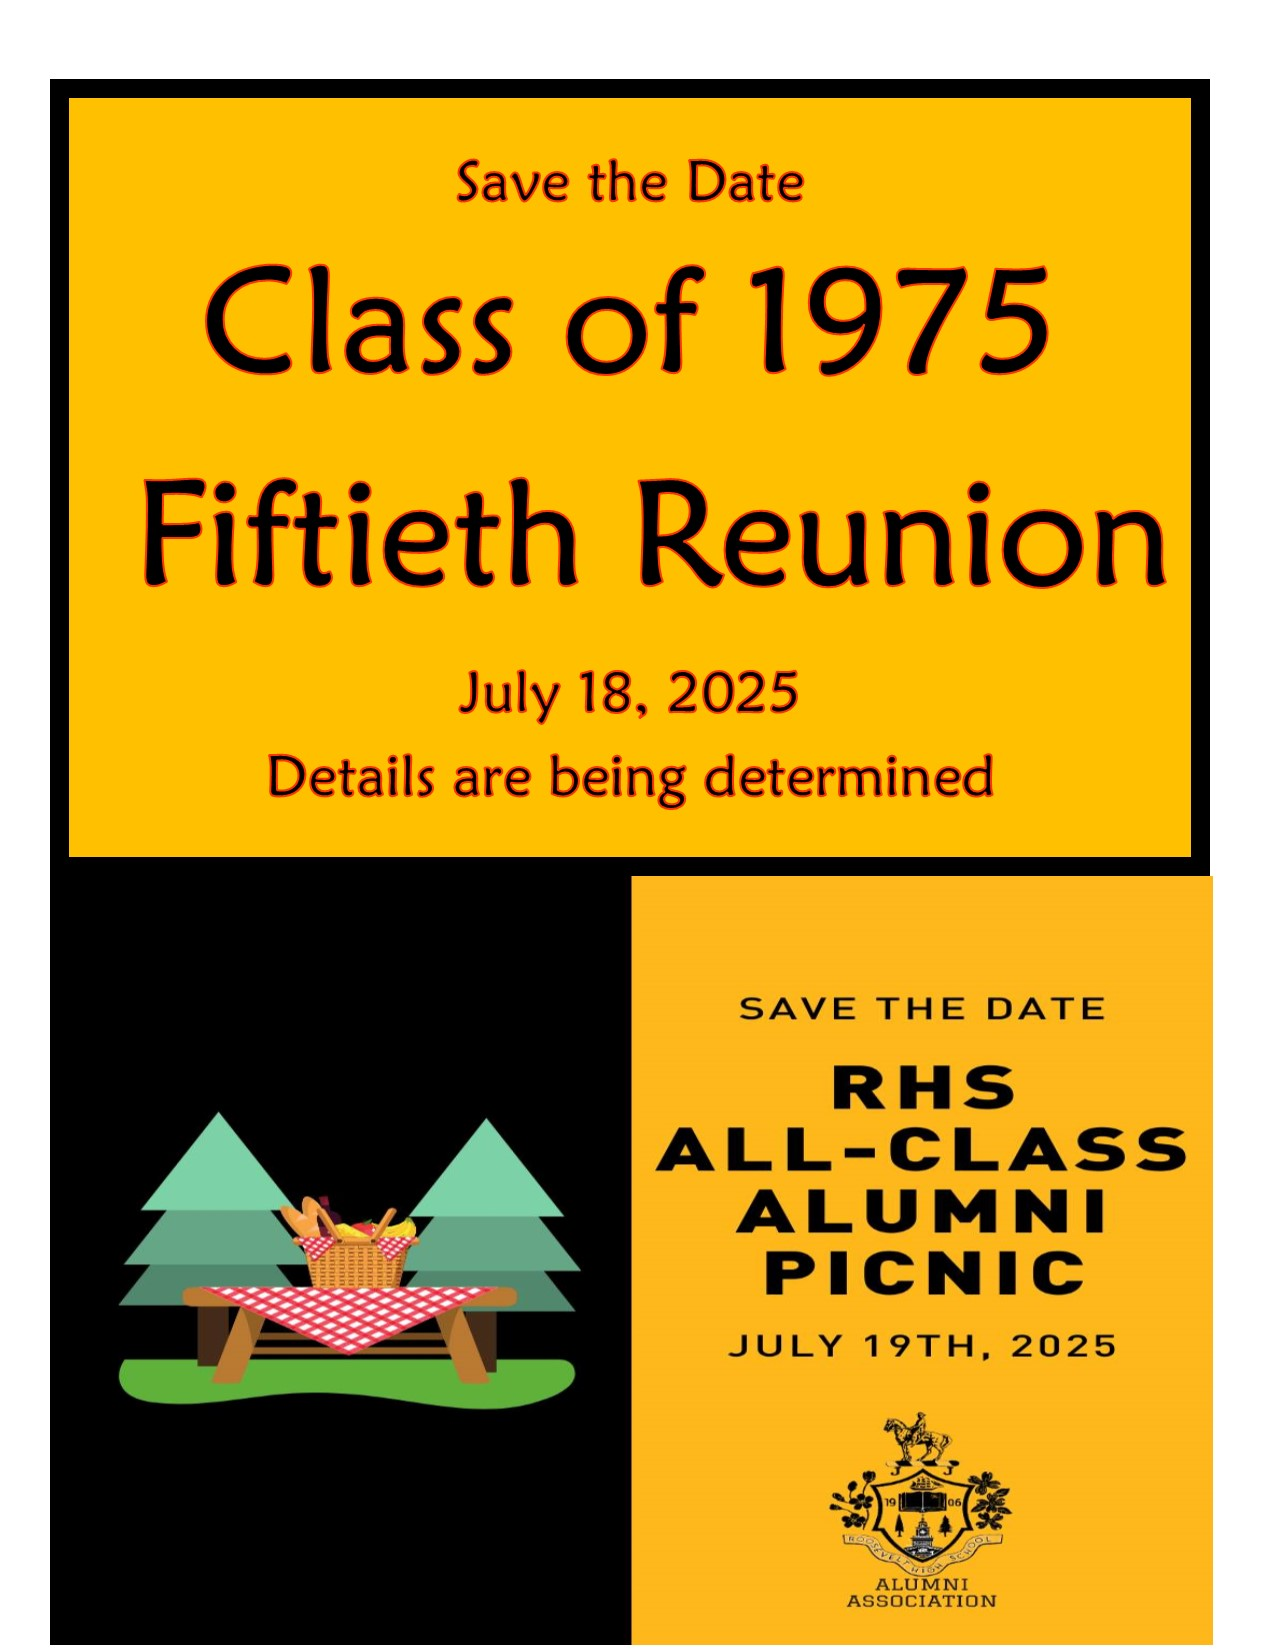
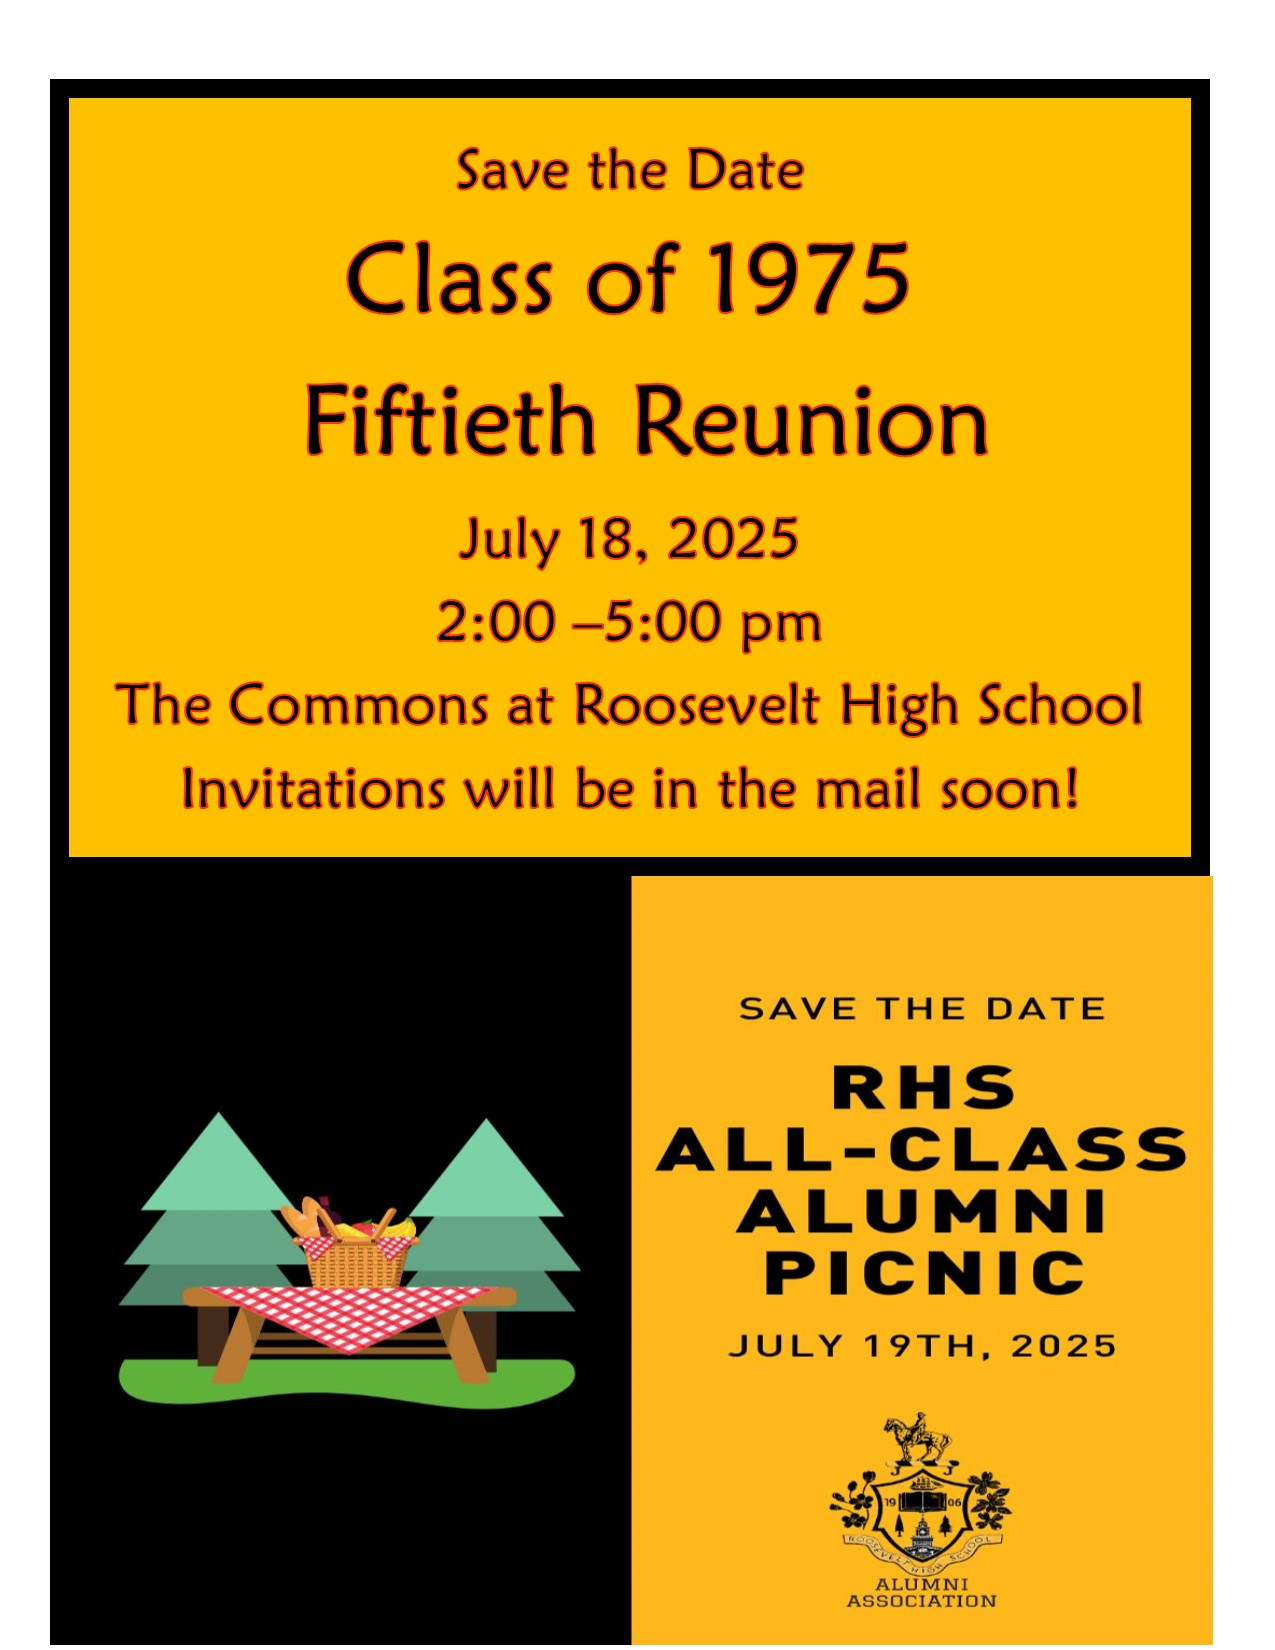
update reunions

Changed region(s): [[0.0918, 0.0927, 0.9176, 0.4945]]

diff --git a/events/reunions.html b/events/reunions.html
@@ -44,40 +44,18 @@
 		</br></br>
 		<div class="row justify-content-center">
 			<div class="blockD col-lg-3 col-md-3 col-sm-4 col-10 justify-content-center text-center">
-				<h3 class="dtitle">Class of 1965</h3>
-				<h5 class="blockDdetail">TBD</h5>
-				<hr width="75%" class="goldbar">
-				<p class="blockDInfo">We are looking for details on the Class of 1965's reunion! </p>
-			</div>
-			<div class="blockD col-lg-3 col-md-3 col-sm-4 col-10 justify-content-center text-center">
 				<h3 class="dtitle">Class of 1975</h3>
 				<h5 class="blockDdetail">July 18th, 2025</h5>
 				<hr width="75%" class="goldbar">
-				<p class="blockDInfo">Here is the result of the planning team's brainstorming session.
+				<p class="blockDInfo">The class will be celebrating on the old stomping grounds, right at Roosevelt High School! Join your classmates 
+				for a casual afternoon in the newly remodeled school, taking advantage of the big new cafeteria space.
 				<br><br>
-				Begin the festivities with a mid afternoon tour of the remodeled Roosevelt building. Following the tour we enjoy a bougie, 
-				elevated happy hour (4:00 -7:00 pm) with over the top appetizers and snacks at a super cool venue. We are checking into some 
-				historic sites in North Portland and exploring catering options. We plan to spend all of our reunion dollars in 
-				St. Johns/North Portland.
-				<br><br>
-				Exact details are in progress, check out the Facebook group to stay up to date or email "roughriders75reunion@gmail.com".
+				Check out the Facebook group to stay up to date or email "roughriders75reunion@gmail.com".
 				</p>
 				<img src="../images/events/1975Reunion.jpg" title="1975Reunion" class="cardpic">
 				<div>
 		          <a href="https://www.facebook.com/groups/728969750521198" title="1975Facebook" class="blockDlink">1975 Facebook Group</a>
 		        </div>
-			</div>
-			<div class="blockD col-lg-3 col-md-3 col-sm-4 col-10 justify-content-center text-center">
-				<h3 class="dtitle">Class of 1985</h3>
-				<h5 class="blockDdetail">TBD</h5>
-				<hr width="75%" class="goldbar">
-				<p class="blockDInfo">We are looking for details on the Class of 1985's reunion! </p>
-			</div>
-			<div class="blockD col-lg-3 col-md-3 col-sm-4 col-10 justify-content-center text-center">
-				<h3 class="dtitle">Class of 1995</h3>
-				<h5 class="blockDdetail">TBD</h5>
-				<hr width="75%" class="goldbar">
-				<p class="blockDInfo">We are looking for details on the Class of 1995's reunion! </p>
 			</div>
 			<div class="blockD col-lg-3 col-md-3 col-sm-4 col-10 justify-content-center text-center">
 				<h3 class="dtitle">Class of 2005</h3>
@@ -93,18 +71,8 @@
 			</div>
 			<div class="blockD col-lg-3 col-md-3 col-sm-4 col-10 justify-content-center text-center">
 				<h3 class="dtitle">Class of 2015</h3>
-				<h5 class="blockDdetail">June 7th, 2025</h5>
 				<hr width="75%" class="goldbar">
-				<p class="blockDInfo">This is a tentative date and location. The class is trying to get an idea of how many people would attend. 
-				This will be a ticketed event, estimated cost $30/person. Spouses are welcomed but no children. Happy Hour style food and drinks 
-				served. Music & photography as well. Would love to do a slideshow with photos & videos if people will send them!
-				<br><br>
-				If you have food suggestions, or a new date suggestions please let Lillie know. If you own a business and would like to sponsor 
-				or donate to the event, let her know!</p>
-				<img src="../images/events/2015Reunion.png" title="2015Reunion" class="cardpic">
-				<div>
-		          <a href="https://www.facebook.com/events/2114800162288972" title="2015Facebook" class="blockDlink">2015 Facebook Event</a>
-		        </div>
+				<p class="blockDInfo">2015 had a great time at their reunion in early June!
 			</div>
 		</div>
 		</br></br>
